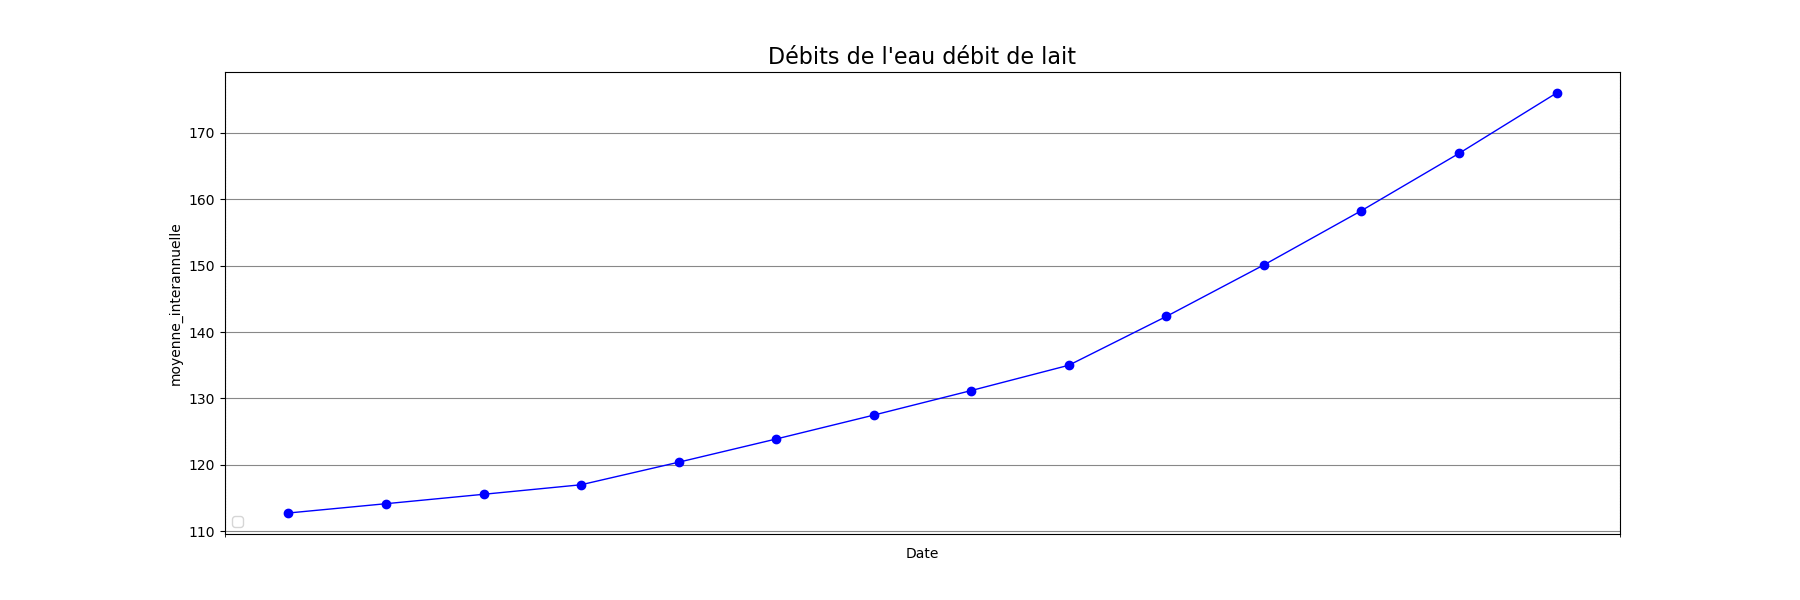
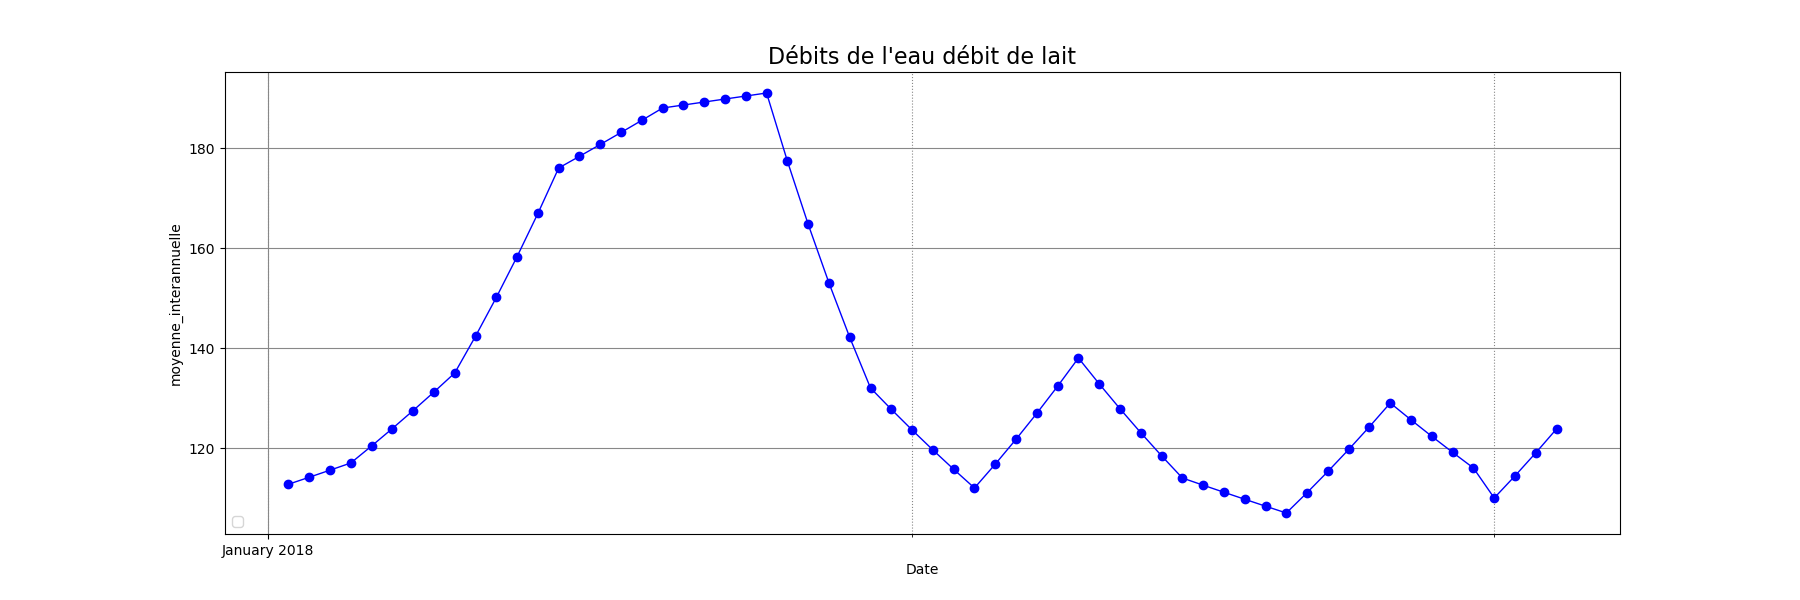
quasi fini!!!

diff --git a/client/index.html b/client/index.html
@@ -26,7 +26,7 @@
 
 
 
-<h2>Gestion des graphiques</h2>
+<h2 id="Gestion">Gestion des graphiques</h2>
 <form>
 
 <fieldset>
@@ -35,8 +35,8 @@
 <div id = "Datedebut">
 
 <legend>Entrer la date de début</legend>
-<select name="Jourdebut">Jour
-    <option value="None" selected="selected">Jour</option>
+<select id="Jourdebut">Jour
+    <option value="01" selected="selected">Jour</option>
     <option value="01">01</option>
     <option value="02">02</option>
     <option value="03">03</option>
@@ -71,8 +71,8 @@
 
 </select>
 
-<select name="Moisdebut">Mois
-    <option value="None" selected="selected">Mois</option>
+<select id="Moisdebut">Mois
+    <option value="09" selected="selected">Mois</option>
     <option value="01">Janvier</option>
     <option value="02">Fevrier</option>
     <option value="03">Mars</option>
@@ -87,8 +87,8 @@
     <option value="12">Decembre</option>
 </select>
 
-<select name="Anneedebut">Année
-    <option value="None" selected="selected">Année</option>
+<select id="Anneedebut">Année
+    <option value="2017" selected="selected">Année</option>
     <option value="2017">2017</option>
     <option value="2018">2018</option>
 
@@ -99,8 +99,8 @@
 <div id='Datefin'>
 
 <legend>Entrer la date de fin</legend>
-<select name="Jourfin" id="Jourfin">Jour
-    <option value="None" selected="selected">Jour</option>
+<select id="Jourfin" id="Jourfin">Jour
+    <option value="01" selected="selected">Jour</option>
     <option value="01">01</option>
     <option value="02">02</option>
     <option value="03">03</option>
@@ -135,8 +135,8 @@
 
 </select>
 
-<select name="Moisfin">Mois
-    <option value="None" selected="selected">Mois</option>
+<select id="Moisfin">Mois
+    <option value="09" selected="selected">Mois</option>
     <option value="01">Janvier</option>
     <option value="02">Fevrier</option>
     <option value="03">Mars</option>
@@ -151,9 +151,8 @@
     <option value="12">Décembre</option>
 </select>
 
-<select name="Anneefin">Année
-    <option value="None" selected="selected">Année</option>
-
+<select id="Anneefin">Année
+    <option value="2018" selected="selected">Année</option>
     <option value="2017">2017</option>
     <option value="2018">2018</option>
 </select>
@@ -250,7 +249,7 @@ function OnMarkerClick (e) {
   stationID=e.target.idreg;
 	dataIsAv=e.target.dataIsAv;
 	nomStat=e.target.nom;
-	document.querySelector('#reponse img')
+	document.querySelector('#Gestion')
 	.scrollIntoView({ behavior: 'smooth' });
 }
 
@@ -271,12 +270,16 @@ function Valider(e){
 		//		legende.innerHTML=stationID;
 			}else{
 				image.src = graphiqueSource;
-				legende.innerHTML = "Données manquantes"
+				legende.innerHTML = "Données manquantes";
 			}
 
 		};
-		var anD="/2018", moisD="/01",jourD="/02";
-		var anF="/2018", moisF="/01",jourF="/15";
+		var anD='/'+document.querySelector('#Anneedebut').value;
+		var moisD='/'+document.querySelector('#Moisdebut').value;
+		var jourD='/'+document.querySelector('#Jourdebut').value;
+		var anF='/'+document.querySelector('#Anneefin').value;
+		var moisF='/'+document.querySelector('#Moisfin').value;
+		var jourF='/'+document.querySelector('#Jourfin').value;
 		var typeGraphe="/ /";
 		var checkDeb = document.querySelector('#Debit').checked;
 		var checkMoy= document.querySelector('#Moyenne_Interanuelle').checked;

diff --git a/hydroVallee.py b/hydroVallee.py
@@ -211,7 +211,7 @@ class RequestHandler(http.server.SimpleHTTPRequestHandler):
             
     
         # génération de la courbe de débit dans un fichier PNG
-        fichier1 = 'courbes/debits_'+self.path_info[1] +'.png'
+        fichier1 = 'courbes/debits_'+self.path_info[1]+d1+d2+'.png'
         plt.savefig('client/{}'.format(fichier1))
         plt.close()
         
@@ -257,7 +257,7 @@ class RequestHandler(http.server.SimpleHTTPRequestHandler):
             plt.plot(x,y,linewidth=1, linestyle='-', marker='o', color=l[1], label=l[0])
         
         # génération de la courbe de la moyenne dans un fichier PNG
-        fichier2 = 'courbes/moyenne'+self.path_info[1] +'.png'
+        fichier2 = 'courbes/moyenne'+self.path_info[1]+d1+d2+'.png'
         plt.savefig('client/{}'.format(fichier2))
         plt.close()
     
@@ -308,7 +308,7 @@ class RequestHandler(http.server.SimpleHTTPRequestHandler):
             plt.plot(x2,z,linewidth=1,linestyle='-',marker='o',label=l[0])
         
         # génération de la courbe de la moyenne dans un fichier PNG
-        fichier3 = 'courbes/debitmoyenne'+self.path_info[1] +'.png'
+        fichier3 = 'courbes/debitmoyenne'+self.path_info[1]+d1+d2+'.png'
         plt.savefig('client/{}'.format(fichier3))
         plt.close()
     
